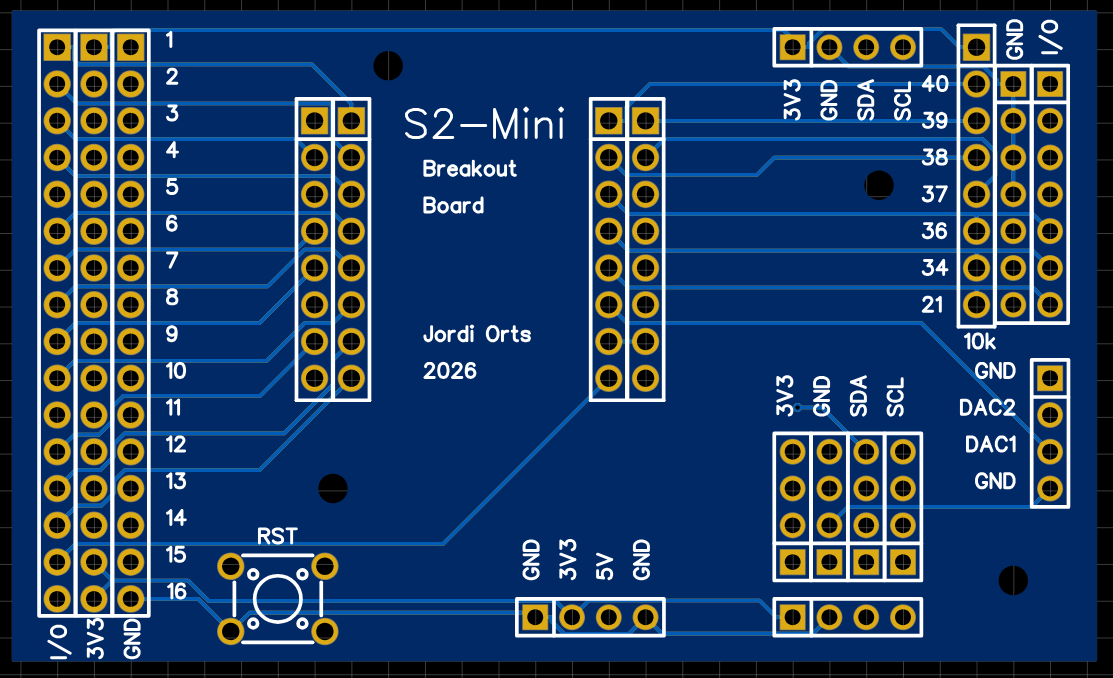
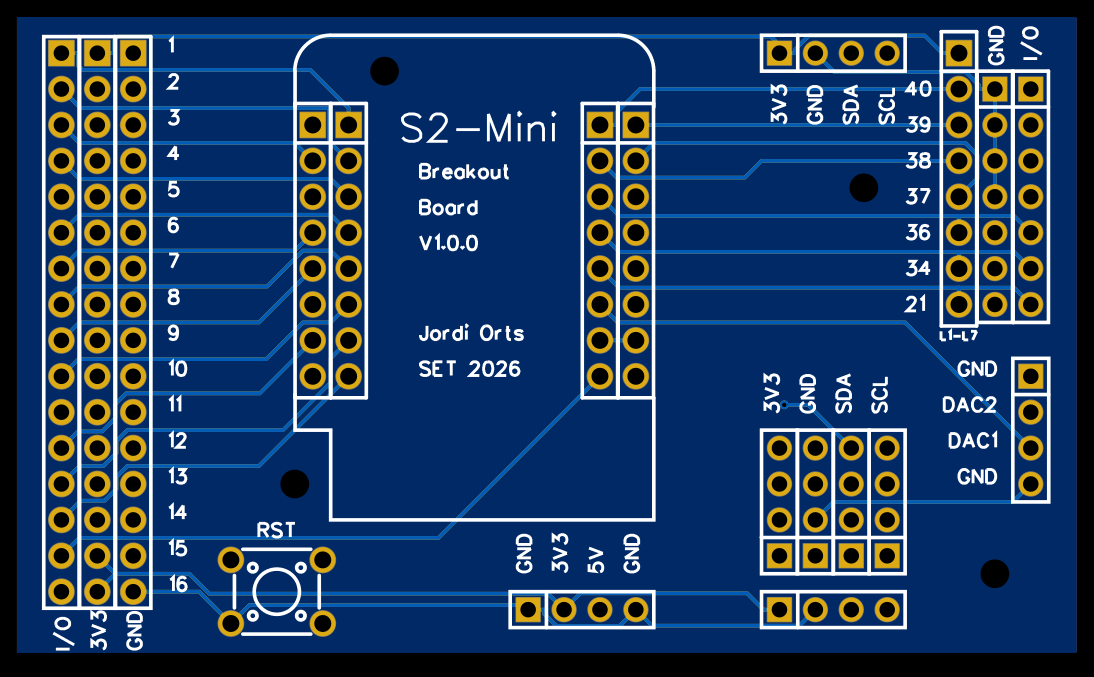
Added PCB pictures

diff --git a/README.md b/README.md
@@ -10,6 +10,14 @@ I2C slave firmware included with examples of master code in Arduino and micropyt
 * Easy access to all exposed pins of the S2 mini
 * I2C bus connector
 
+## Standalone mode
+
+You can use this PCB as a S2-mini breakout for development or  project pruposes. Some [micropython examples](standalone/micropython) included.
+
+In this mode you can put a 7xLED VCC COM module for easy development. Or a 8xLED module (with one pin in the air) as shown in picture:
+
+![](images/S2miniBreakoutLeds.png)
+
 ## Slave mode
 
 * Arduino firmware. [Micropython](I2Cslave/master/micropython/ejemplo.py) and [Arduino](https://github.com/jorts64/S2MiniSlave/blob/main/examples/Basic/Basic.ino) master examples avalaible.
@@ -18,6 +26,13 @@ I2C slave firmware included with examples of master code in Arduino and micropyt
 * 2 DAC outputs
 * I2C address by jumper configuration, you can choose any I2C address. You can chain up to 128 S2 mini I2C slave devices, if you ignore protocol restrictions [i2c address list: the 0x00–0x77 map](https://i2c.net/i2c-addresses/), so you could get 2048 configurable GPIO and 256 DAC inputs !!
 * Really cheap device, about $10 S2 mini included. You can order PCB from JLCPCB and buy electronic components at Aliexpress.
+
+In this mode you must set I2C address with jumpers to GND (active LOW) in pins 21, 34, 36, 37, 38, 39 & 40 (MSB...LSB). The slave in picture has I2C address 0x60:
+
+![](images/S2miniBreakoutJumpers.png)
+
+Female and Male right angle connectors at the top and bottom of the PCB lets chain our S2 mini slaves in the I2C bus.
+
 
 ## Hardware restricctions
 
